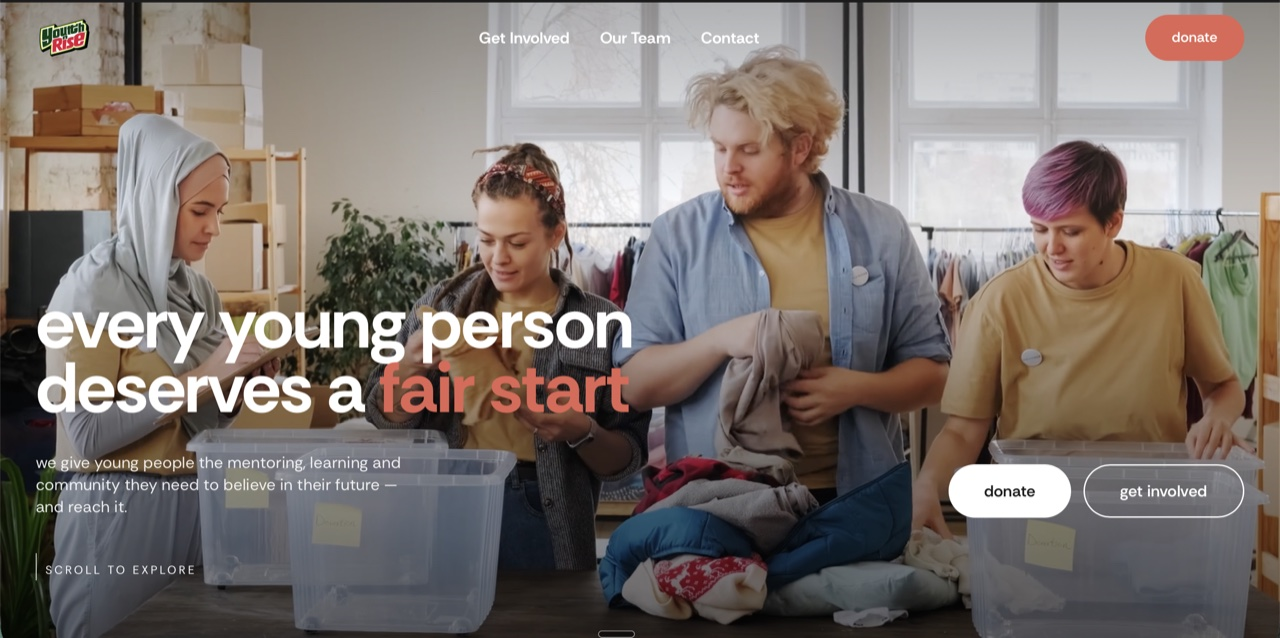
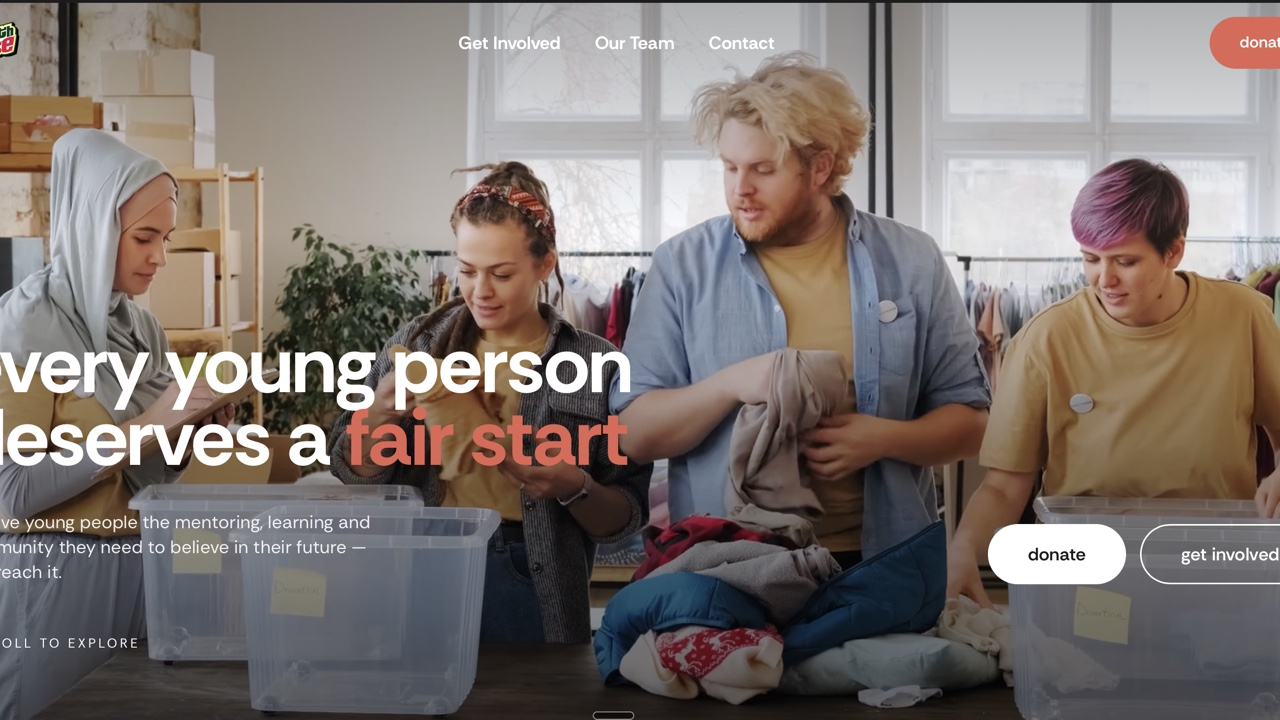
fix(work): uncropped video, clean stacked card, persistent copy
- Poster regenerated at true 16:9 so it no longer crops to fill the frame
- Reverted the on-video overlay (it cluttered desktop and made the copy
  vanish on play): video full-width on top, copy always visible below
- Copy is no longer gated on play state, so text + button stay during
  playback

diff --git a/src/components/marketing/CaseStudyCard.tsx b/src/components/marketing/CaseStudyCard.tsx
@@ -1,6 +1,6 @@
 "use client";
 
-import { useEffect, useRef, useState } from "react";
+import { useEffect, useRef } from "react";
 import { gsap } from "gsap";
 import { ScrollTrigger } from "gsap/ScrollTrigger";
 import { prefersReducedMotion } from "@/lib/marketing/reducedMotion";
@@ -9,13 +9,13 @@ gsap.registerPlugin(ScrollTrigger);
 
 export type CaseStudy = {
   name: string;
-  /** Brand logo (transparent PNG/SVG) shown in the overlay. */
+  /** Brand logo (transparent PNG/SVG). */
   logo: string;
   /** Short, 1–2 sentence description of the build. */
   blurb: string;
-  /** Clickable demo clip. */
+  /** Playable demo clip (16:9). */
   video: string;
-  /** Thumbnail still shown before the clip plays. */
+  /** Thumbnail still (16:9, matches the video so it never crops). */
   poster?: string;
   /** Live site URL for the "view website" button. */
   href: string;
@@ -23,106 +23,85 @@ export type CaseStudy = {
 
 export function CaseStudyCard({ study }: { study: CaseStudy }) {
   const ref = useRef<HTMLDivElement>(null);
-  const videoRef = useRef<HTMLVideoElement>(null);
-  const [playing, setPlaying] = useState(false);
 
   useEffect(() => {
     const el = ref.current;
     if (!el) return;
+    const blocks = el.querySelectorAll<HTMLElement>("[data-cs]");
     if (prefersReducedMotion()) {
       gsap.set(el, { opacity: 1, y: 0, scale: 1 });
+      gsap.set(blocks, { opacity: 1, y: 0 });
       return;
     }
     const ctx = gsap.context(() => {
-      gsap.fromTo(
-        el,
-        { opacity: 0, y: 48, scale: 0.97 },
-        {
-          opacity: 1,
-          y: 0,
-          scale: 1,
-          duration: 0.7,
-          ease: "power3.out",
-          scrollTrigger: { trigger: el, start: "top 80%", once: true },
-        },
-      );
+      gsap
+        .timeline({ scrollTrigger: { trigger: el, start: "top 82%", once: true } })
+        .fromTo(
+          el,
+          { opacity: 0, y: 44, scale: 0.97 },
+          { opacity: 1, y: 0, scale: 1, duration: 0.7, ease: "power3.out" },
+        )
+        .fromTo(
+          blocks,
+          { opacity: 0, y: 18 },
+          { opacity: 1, y: 0, duration: 0.5, ease: "power2.out", stagger: 0.1 },
+          "-=0.4",
+        );
     }, el);
     return () => ctx.revert();
   }, []);
-
-  const play = () => {
-    setPlaying(true);
-    requestAnimationFrame(() => void videoRef.current?.play().catch(() => {}));
-  };
 
   return (
     <div
       ref={ref}
       style={{ opacity: 0, willChange: "transform" }}
-      className="relative overflow-hidden rounded-3xl border-2 border-ua-ink bg-ua-ink shadow-[8px_8px_0_var(--ua-ink)]"
+      className="overflow-hidden rounded-3xl border-2 border-ua-ink bg-white shadow-[8px_8px_0_var(--ua-ink)]"
     >
-      {/* Video area — always 16:9; the thumbnail shows until it's played. */}
-      <div className="relative aspect-video">
+      {/* Playable demo — full width, 16:9, never cropped. */}
+      <div data-cs className="border-b-2 border-ua-ink bg-ua-ink">
         <video
-          ref={videoRef}
           src={study.video}
           poster={study.poster}
-          controls={playing}
+          controls
           playsInline
           preload="metadata"
-          className="absolute inset-0 h-full w-full object-cover"
+          className="block aspect-video w-full object-cover"
         />
-
-        {!playing && (
-          <>
-            {/* Click-anywhere-to-play surface. */}
-            <button
-              type="button"
-              onClick={play}
-              aria-label={`Play ${study.name} demo`}
-              className="absolute inset-0 z-0 cursor-pointer"
-            />
-            {/* Play badge — right side on desktop, centred on mobile. */}
-            <span className="pointer-events-none absolute left-1/2 top-1/2 z-10 grid h-14 w-14 -translate-x-1/2 -translate-y-1/2 place-items-center rounded-full border-2 border-ua-ink bg-ua-bg shadow-[3px_3px_0_var(--ua-ink)] sm:left-auto sm:right-[8%] sm:translate-x-0 sm:h-16 sm:w-16">
-              <span className="ml-1 inline-block border-y-[9px] border-l-[15px] border-y-transparent border-l-ua-ink" />
-            </span>
-          </>
-        )}
       </div>
 
-      {/* Copy — overlaid bottom-left on desktop, stacked below on mobile.
-          No dark layer over the video; the copy sits in a solid panel. */}
-      {!playing && (
-        <div className="relative z-20 border-t-2 border-ua-ink bg-ua-bg p-4 sm:absolute sm:bottom-6 sm:left-6 sm:max-w-md sm:rounded-2xl sm:border-2 sm:p-5">
-          {/* eslint-disable-next-line @next/next/no-img-element */}
-          <img
-            src={study.logo}
-            alt={`${study.name} logo`}
-            className="h-8 w-auto md:h-9"
-          />
-          <h3
-            className="mt-3 text-lg font-black text-ua-ink md:text-xl"
-            style={{ fontFamily: "var(--font-epilogue)" }}
-          >
-            {study.name}
-          </h3>
-          <p className="mt-1.5 text-sm leading-relaxed text-ua-ink/75">
-            {study.blurb}
-          </p>
-          <a
-            href={study.href}
-            target="_blank"
-            rel="noopener noreferrer"
-            className="group mt-3 inline-flex items-center gap-2 rounded-full border-2 border-ua-ink bg-ua-ink px-5 py-2 text-sm font-bold text-ua-bg shadow-[3px_3px_0_var(--ua-ink)] transition-all duration-200 hover:-translate-y-0.5 hover:bg-ua-orange hover:shadow-[5px_5px_0_var(--ua-ink)] active:translate-y-0 active:shadow-[1px_1px_0_var(--ua-ink)]"
-            style={{ fontFamily: "var(--font-epilogue)" }}
-          >
-            view website
-            <span className="transition-transform duration-200 group-hover:translate-x-1">
-              →
-            </span>
-          </a>
-        </div>
-      )}
+      {/* Copy — always visible, below the video. */}
+      <div className="flex flex-col items-start gap-3 p-5 md:p-7">
+        {/* eslint-disable-next-line @next/next/no-img-element */}
+        <img
+          data-cs
+          src={study.logo}
+          alt={`${study.name} logo`}
+          className="h-10 w-auto md:h-12"
+        />
+        <h3
+          data-cs
+          className="text-xl font-black text-ua-ink md:text-2xl"
+          style={{ fontFamily: "var(--font-epilogue)" }}
+        >
+          {study.name}
+        </h3>
+        <p data-cs className="max-w-2xl text-base leading-relaxed text-ua-ink/75">
+          {study.blurb}
+        </p>
+        <a
+          data-cs
+          href={study.href}
+          target="_blank"
+          rel="noopener noreferrer"
+          className="group mt-1 inline-flex items-center gap-2 rounded-full border-2 border-ua-ink bg-ua-ink px-6 py-2.5 text-sm font-bold text-ua-bg shadow-[4px_4px_0_var(--ua-ink)] transition-all duration-200 hover:-translate-y-0.5 hover:bg-ua-orange hover:shadow-[6px_6px_0_var(--ua-ink)] active:translate-y-0 active:shadow-[2px_2px_0_var(--ua-ink)]"
+          style={{ fontFamily: "var(--font-epilogue)" }}
+        >
+          view website
+          <span className="transition-transform duration-200 group-hover:translate-x-1">
+            →
+          </span>
+        </a>
+      </div>
     </div>
   );
 }
